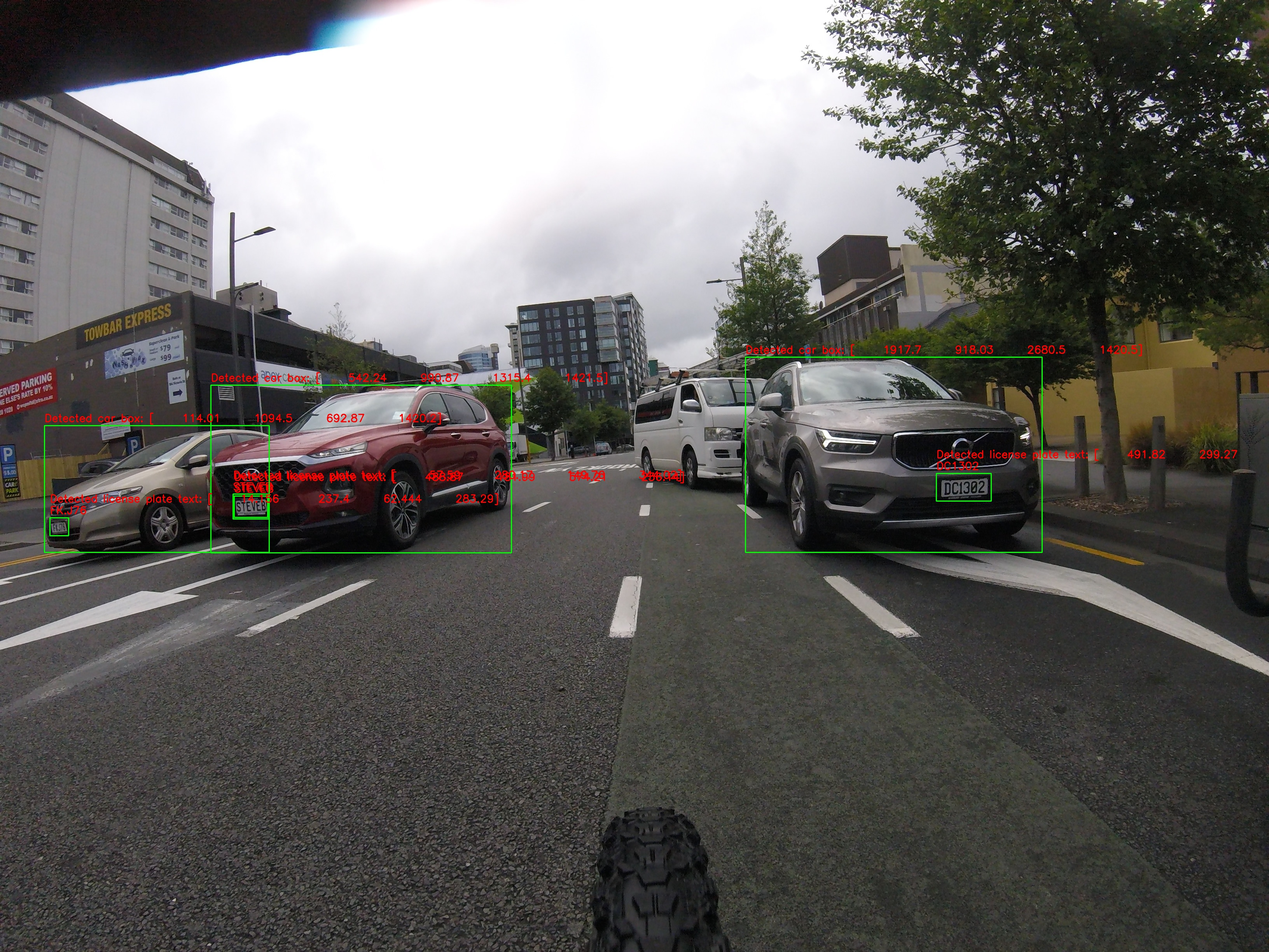
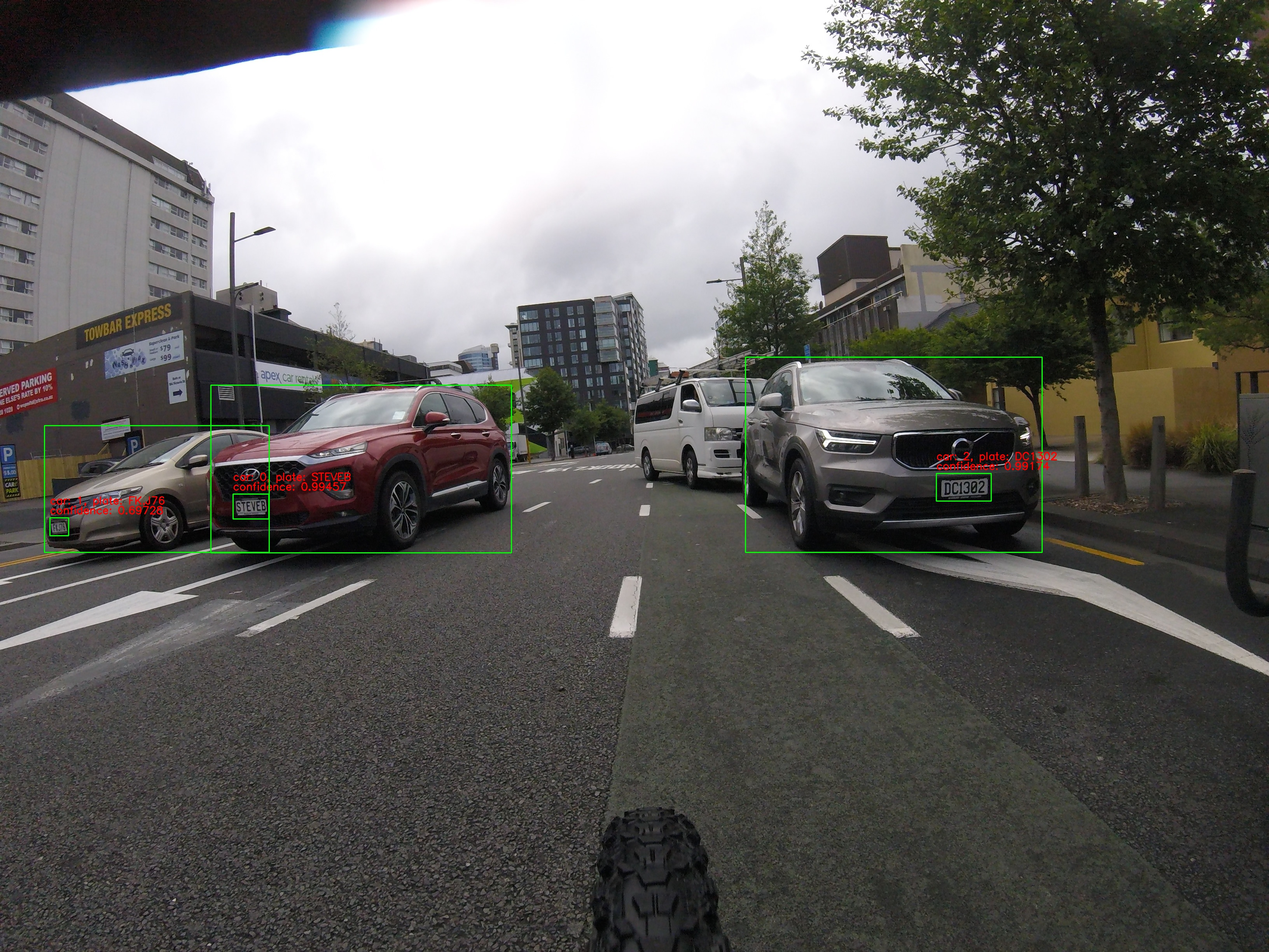
fixed duplacte removal and image text display

diff --git a/app/src/app.py b/app/src/app.py
@@ -80,13 +80,18 @@ def detect_objects_plates(roi, iou_threshold=0.5):
 # Function for OCR (License Plate Text) using PaddleOCR
 def extract_text_from_image(roi):
     # Convert the image to grayscale
-    gray = cv2.cvtColor(roi, cv2.COLOR_BGR2GRAY)
+    #gray = cv2.cvtColor(roi, cv2.COLOR_BGR2GRAY)
+    
     # Perform OCR using PaddleOCR
-    result = ocr.ocr(gray, cls=True)
+    #result = ocr.ocr(gray, cls=True)
+    result = ocr.ocr(roi, cls=True)
     if result == [None]:
-        return "", gray
+        #return "", gray, 0
+        return "", 0
     text = " ".join([line[1][0] for line in result[0]])
-    return text, gray
+    confidence = min([line[1][1] for line in result[0]])
+    #return text, gray, confidence
+    return text, confidence
 
 # Process an image for detection and OCR
 def process_image(image_path, output_path):
@@ -101,7 +106,7 @@ def process_image(image_path, output_path):
     boxes = results_cars['boxes']
 
     #image = cv2.imread(image_path)
-    for box_car in boxes:
+    for car_index, box_car in enumerate(boxes):
         c_x1, c_y1, c_x2, c_y2 = box_car.astype(int)
 
         # Extract the region of interest (ROI) for the car
@@ -109,16 +114,16 @@ def process_image(image_path, output_path):
 
         # Check if the ROI has non-zero dimensions
         if roi_car.shape[0] == 0 or roi_car.shape[1] == 0:
-            print(f"Skipping empty ROI for car: {box_car}")
+            #print(f"Skipping empty ROI for car: {box_car}")
             continue
 
-        print(f"Detected car box: {box_car}")
+        #print(f"Detected car box: {box_car}")
         #c_text = f"Detected car box: {box_car}"
 
         results_plates = detect_objects_plates(roi_car)
         boxes_plates = results_plates['boxes']
-        for box_plate in boxes_plates:
-            print(f"Detected plate box: {box_plate}")
+        for plate_index, box_plate in enumerate(boxes_plates):
+            #print(f"Detected plate box: {box_plate}")
             #p_text = f"Detected license plate text: {box_plate}"
             bp_x1, bp_y1, bp_x2, bp_y2 = box_plate.astype(int)
 
@@ -129,21 +134,25 @@ def process_image(image_path, output_path):
             roi_plate = image[p_y1:p_y2, p_x1:p_x2]            
 
             # Extract text from the ROI
-            text, thresh = extract_text_from_image(roi_plate)
+            #text, plate_image, confidence = extract_text_from_image(roi_plate)
+            text, confidence = extract_text_from_image(roi_plate)
 
             if text != "":
-                print(f"Detected license plate text: {text}")
+                #print(f"Detected license plate text: {text}")
 
                 # Initialize car entry
-                car_entry = {
-                    "car_box": box_car.tolist(),
-                    "plates": []
-                }
+                if plate_index == 0:
+                    car_entry = {
+                        "car_id": car_index,
+                        "car_box": box_car, #.tolist(),
+                        "plates": []
+                    }
 
                 # Add plate data to car entry
                 car_entry["plates"].append({
-                    "plate_box": box_plate.tolist(),
-                    "text": text
+                    "plate_box": box_plate, #.tolist(),
+                    "text": text,
+                    "text_confidence": round(confidence, 5)
                 })
 
                 # Add car entry to car data
@@ -161,13 +170,16 @@ def process_image(image_path, output_path):
     # we will only add cars that have plates with text to the data structure.
 
     # Process car data to remove false positives
+    print(f"Starting review of car data/plate")
     for car in car_data:
+        #print(f"Reviewing car: {car}")
         #car_box = car["car_box"]
         plates = car["plates"]
         if len(plates) > 1:
             # Compare plates with other cars
             for other_car in car_data:
-                if other_car == car:
+                #print(f"Reviewing other car: {other_car}")
+                if np.array_equal(other_car["car_box"], car["car_box"]):
                     continue
                 #other_car_box = other_car["car_box"]
                 other_plates = other_car["plates"]
@@ -175,31 +187,36 @@ def process_image(image_path, output_path):
                     plate_text = plate["text"]
                     for other_plate in other_plates:
                         other_plate_text = other_plate["text"]
+                        #print(f"Reviewing plate: {plate}, and other_plate: {other_plate}")
                         # Check if the plate is a false positive
                         if np.array_equal(plate_text, other_plate_text):
-                            print(f"Removing false positive plate: {plate}")
+                            #print(f"Removing false positive plate: {plate}")
                             plates.remove(plate)
                             break
 
     # Process car data to draw bounding boxes and text
+    print(f"Starting drawing boxes and text")
     for car in car_data:
         box_car = car["car_box"]
+        car_id = car["car_id"]
         plates = car["plates"]
         c_x1, c_y1, c_x2, c_y2 = box_car.astype(int)
         for plate in plates:
             box_plate = plate["plate_box"]
-            text = plate["text"]
+            text_1 = "car: " + str(car_id) +", plate: " +plate["text"]
+            text_2 = "confidence: " + str(plate["text_confidence"])
             bp_x1, bp_y1, bp_x2, bp_y2 = box_plate.astype(int)
             p_x1, p_y1, p_x2, p_y2 = bp_x1 + c_x1, bp_y1 + c_y1, bp_x2 + c_x1, bp_y2 + c_y1
 
             # Extract the region of interest (ROI) for the number plate
             cv2.rectangle(image, (c_x1, c_y1), (c_x2, c_y2), (0, 255, 0), 2) # Draws CAR bounding box
             cv2.rectangle(image, (p_x1, p_y1), (p_x2, p_y2), (0, 255, 0), 2) # Draws PLATE bounding box inside the car bounding box
-            cv2.putText(image, text, (p_x1, p_y1-10), cv2.FONT_HERSHEY_SIMPLEX, 0.9, (0, 0, 255), 2) # Draws PLATE text above the plate bounding box
+            cv2.putText(image, text_1, (p_x1, p_y1-35), cv2.FONT_HERSHEY_SIMPLEX, 0.9, (0, 0, 255), 2) # Draws PLATE text above the plate bounding box
+            cv2.putText(image, text_2, (p_x1, p_y1-10), cv2.FONT_HERSHEY_SIMPLEX, 0.9, (0, 0, 255), 2) # Draws PLATE text above the plate bounding box
 
     # Save the image with boxes
     cv2.imwrite(output_path, image)
-    print(f"Saved processed image to: {output_path}")
+    print(f"Saved processed image to: {output_path}\n")
 
 if __name__ == "__main__":
     # Example of image processing
@@ -207,6 +224,7 @@ if __name__ == "__main__":
 
     input_folder = "../data"
     output_folder = "../data/processed"
+    print(f"Processing images from: {input_folder}, to {output_folder}\n")
     os.makedirs(output_folder, exist_ok=True)
     input_image_files = glob.glob(os.path.join(input_folder, "*.*"))
 
